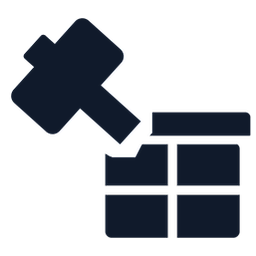
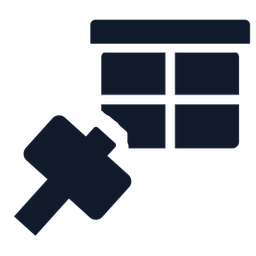
The loading picture covers the area the renderer actually fills, the income coin becomes a real turning coin off the top of its piece, and SMASH takes the build mallet's own angle

diff --git a/src/client/gains.ts b/src/client/gains.ts
@@ -1,5 +1,5 @@
-import { engine, Entity, Transform, MeshRenderer, Material, Billboard, BillboardMode } from '@dcl/sdk/ecs'
-import { Color3, Color4, Vector3 } from '@dcl/sdk/math'
+import { engine, Entity, Transform, MeshRenderer, Material } from '@dcl/sdk/ecs'
+import { Color3, Color4, Quaternion, Vector3 } from '@dcl/sdk/math'
 
 /**
  * Chaque piece posee lache SA piece de monnaie, sur elle, a son propre rythme.
@@ -15,23 +15,24 @@ import { Color3, Color4, Vector3 } from '@dcl/sdk/math'
  * sur le retour porte par l'objet: le signifiant se met sur la chose qui produit, jamais dans
  * l'interface.
  *
- * Une premiere version faisait tourner UN emetteur le long de l'etagere pour economiser des
- * entites. C'etait un rythme invente pour un budget, pas pour un joueur, et le proprietaire
- * l'a refuse a raison (7 Sep). Ici chaque socle a son minuteur, decale des autres pour qu'ils
- * ne partent pas ensemble: c'est la seule chose qu'on impose au rythme.
+ * C'est une VRAIE piece, pas une image de piece. Une premiere version affichait le sprite dore
+ * du HUD sur un panneau face camera; le proprietaire l'a vu tout de suite (7 Sep: "c'est une
+ * icone 2D de piece pas une piece 3D"). Le jeu a deja une piece en volume, celle qui tombe au
+ * sol quand on se fait tirer dessus: un cylindre couche sur le dos qui tourne autour de la
+ * verticale. Celle-ci est la meme, en plus petit, pour que le monde n'ait qu'un seul objet
+ * "argent". Elle tourne d'elle-meme, ce qui la fait lire par sa tranche puis par sa face, et
+ * c'est ce qui distingue une piece d'un jeton.
  *
- * Ce qui tient le cout n'est donc pas le rythme mais la PORTEE, et elle est drastique
- * (`emissionsDeBase` dans plots.ts): sa propre base uniquement, a portee, et seulement les
- * socles de l'etage ou l'on se trouve. Six objets au plus a l'ecran, donc huit emplacements
- * suffisent et le neuvieme est refuse plutot que mis en file.
- *
- * L'image est la pile doree de l'ancien bouton COLLECT, deja dans le depot: le jeu n'a qu'un
- * seul mot visuel pour l'argent, et c'est celui-la.
+ * Cout: huit entites partagees par toute la scene, un seul materiau, garees sous le sol entre
+ * deux apparitions. La rotation et la montee sont ecrites par la boucle ci-dessous, donc aucune
+ * de ces entites ne porte de tween.
  */
 const POOL = 8
 const VIE_MS = 950
-const MONTEE = 0.65
-const SPRITE = 'assets/ui/act-collect.png'
+const MONTEE = 0.5
+const TOURS = 1.35
+const EPAISSEUR = 0.14
+const OR = Color3.fromHexString('#ffcf4d')
 
 type Slot = { e: Entity; depuis: number; y0: number; taille: number; vivant: boolean }
 const pool: Slot[] = []
@@ -42,20 +43,12 @@ function creer(): void {
   for (let i = 0; i < POOL; i++) {
     const e = engine.addEntity()
     Transform.create(e, { position: Vector3.create(0, -60, 0), scale: Vector3.Zero() })
-    MeshRenderer.setPlane(e)
-    // Face toujours la camera: une piece vue par la tranche n'est plus une piece.
-    Billboard.create(e, { billboardMode: BillboardMode.BM_ALL })
+    MeshRenderer.setCylinder(e, 1, 1)
     Material.setPbrMaterial(e, {
-      texture: Material.Texture.Common({ src: SPRITE }),
-      emissiveTexture: Material.Texture.Common({ src: SPRITE }),
-      albedoColor: Color4.White(),
-      emissiveColor: Color3.create(1, 0.85, 0.5),
-      emissiveIntensity: 1.4,
-      metallic: 0, roughness: 1, specularIntensity: 0,
-      // Decoupe franche plutot que fondu: un fondu demanderait de reecrire le materiau a
-      // chaque image, ce qui coute bien plus qu'il ne rend sur huit objets. La disparition
-      // se joue a l'echelle, juste en dessous.
-      transparencyMode: 1, alphaTest: 0.5, castShadows: false
+      albedoColor: Color4.fromColor3(OR),
+      emissiveColor: OR,
+      emissiveIntensity: 0.9,
+      metallic: 0.9, roughness: 0.25, castShadows: false
     })
     pool.push({ e, depuis: 0, y0: 0, taille: 0.2, vivant: false })
   }
@@ -64,10 +57,10 @@ function creer(): void {
 /**
  * Une piece vient de rapporter: une piece de monnaie monte au-dessus d'elle et s'efface.
  *
- * `ou` est une position MONDE, et `rarete` decide de la taille: le joueur lit la valeur a la
- * grosseur de la piece, sans un chiffre a lire. Six nombres flottants au-dessus d'une etagere
- * seraient a dechiffrer un par un, la ou une piece se reconnait d'un coup et supporte de se
- * repeter, ce qui est exactement ce qu'on lui demande.
+ * `ou` est le point du MONDE d'ou elle part, et `rarete` decide de sa taille: le joueur lit la
+ * valeur a la grosseur de la piece, sans un chiffre a lire. Six nombres flottants au-dessus
+ * d'une etagere seraient a dechiffrer un par un, la ou une piece se reconnait d'un coup et
+ * supporte de se repeter, ce qui est exactement ce qu'on lui demande.
  */
 export function emettreGain(ou: Vector3, rarete: number): void {
   creer()
@@ -82,9 +75,10 @@ export function emettreGain(ou: Vector3, rarete: number): void {
 
   const t = Transform.getMutableOrNull(slot.e)
   if (t === null) return
-  const taille = 0.18 + Math.max(0, Math.min(6, rarete)) * 0.03
+  const taille = 0.16 + Math.max(0, Math.min(6, rarete)) * 0.025
   t.position = Vector3.create(ou.x, ou.y, ou.z)
-  t.scale = Vector3.create(taille, taille, taille)
+  t.scale = Vector3.create(taille, taille * EPAISSEUR, taille)
+  t.rotation = Quaternion.fromEulerDegrees(90, 0, 0)
   slot.depuis = Date.now()
   slot.y0 = ou.y
   slot.taille = taille
@@ -92,10 +86,10 @@ export function emettreGain(ou: Vector3, rarete: number): void {
 }
 
 /**
- * La montee et la disparition, ecrites uniquement pour les emplacements vivants.
+ * La montee, la rotation et la disparition, ecrites uniquement pour les emplacements vivants.
  *
- * Rien n'est touche quand rien ne flotte, ce qui est l'etat le plus frequent: hors d'une
- * base, la boucle ne fait que huit tests de booleen.
+ * Rien n'est touche quand rien ne flotte, ce qui est l'etat le plus frequent: hors d'une base,
+ * la boucle ne fait que huit tests de booleen.
  */
 export function setupGains(): void {
   engine.addSystem(() => {
@@ -112,9 +106,15 @@ export function setupGains(): void {
       // Vite au depart puis de plus en plus lentement, et la piece se retire sur le dernier
       // tiers: elle est lue dans le premier, elle s'en va pendant le reste.
       t.position = Vector3.create(t.position.x, s.y0 + MONTEE * (1 - (1 - k) * (1 - k)), t.position.z)
+      // Couchee sur le dos (90 sur X) et tournee autour de la verticale du MONDE, l'ordre des
+      // deux comptant: l'inverse la ferait rouler comme une roue au lieu de tourner sur place.
+      t.rotation = Quaternion.multiply(
+        Quaternion.fromEulerDegrees(0, k * 360 * TOURS, 0),
+        Quaternion.fromEulerDegrees(90, 0, 0)
+      )
       const p = k < 0.62 ? 1 : 1 - (k - 0.62) / 0.38
       const c = s.taille * p
-      t.scale = Vector3.create(c, c, c)
+      t.scale = Vector3.create(c, c * EPAISSEUR, c)
     }
   })
 }

diff --git a/src/ui.tsx b/src/ui.tsx
@@ -10,7 +10,7 @@ import { FONT_FILES } from './client/font-metrics'
 import { PrestigePanel, prestigeView } from './client/prestige-ui'
 import { FusionPanel, fuserPanelView } from './client/fusion-ui'
 import { intentEnAttente } from './client/intent'
-import { strip, row, topBand, noticeBand, active, BAND, THUMB, STACK_GAP, COIN_HAUT_DROIT, decalageCentre, setReference } from './client/layout'
+import { strip, row, topBand, noticeBand, active, BAND, THUMB, STACK_GAP, COIN_HAUT_DROIT, decalageCentre, setReference, zoneRenderer } from './client/layout'
 import { forceDuTir, GEARS, CARRY_STOLEN_SHARE } from './shared/schemas'
 import { Btn, CloseBtn, SoundBtn, Pouce, Barre, SURF, pctAnime, cue } from './client/ui-kit'
 import { damageFlashAlpha, liveAmounts } from './client/juice'
@@ -2333,14 +2333,25 @@ const LoadingScreen = () => {
     Computed rather than guessed, so it holds on any canvas the client reports.
   */
   const RATIO = 1440 / 960
-  const iw = active.w
-  const ih = Math.round(active.w / RATIO)
-  const haut = Math.round((active.h - ih) / 2)
+  /*
+    Mesure contre la zone que le renderer remplit reellement, pas contre le canevas.
+
+    Calculee contre `active`, la couverture visait un cadre plus grand que celui qu'un
+    element en `100%` occupe, parce que le renderer est pose sur la zone sure de l'appareil:
+    l'image sortait decalee et coupee de travers (proprietaire, 7 Sep). Et la dimension qui
+    commande n'est pas toujours la largeur: on compare les deux rapports plutot que de
+    supposer, sinon une tablette proche du 3:2 laisserait deux bandes vides.
+  */
+  const z = zoneRenderer()
+  const iw = z.w / z.h > RATIO ? z.w : Math.round(z.h * RATIO)
+  const ih = z.w / z.h > RATIO ? Math.round(z.w / RATIO) : z.h
+  const haut = Math.round((z.h - ih) / 2)
+  const gauche = Math.round((z.w - iw) / 2)
   const t = Date.now() / 1000
   const attend = !loadingView.assetsReady ? 'LOADING THE FIELD'
     : !theftView.walletRecu ? 'OPENING YOUR BASE'
     : 'WAKING THE SERVER'
-  const bande = Math.round(active.h * 0.26)
+  const bande = Math.round(z.h * 0.26)
   return (
     <UiEntity
       uiTransform={{
@@ -2349,7 +2360,7 @@ const LoadingScreen = () => {
       }}
       uiBackground={{ color: Color4.fromHexString('#0f1524ff') }}
     >
-      <UiEntity uiTransform={{ width: iw, height: ih, positionType: 'absolute', position: { top: haut, left: 0 } }}
+      <UiEntity uiTransform={{ width: iw, height: ih, positionType: 'absolute', position: { top: haut, left: gauche } }}
         uiBackground={{ texture: { src: 'images/base-war-thumbnail.png' }, textureMode: 'stretch' }} />
       {/*
         A band under the words rather than a veil over the whole picture. Text laid straight

diff --git a/src/client/plots.ts b/src/client/plots.ts
@@ -774,7 +774,18 @@ function emissionsDeBase(v: View, p: { items: readonly number[] }): void {
     if (rythmeSocle.size > 512) rythmeSocle.clear()
     const du = rythmeSocle.get(cle)
     if (du === undefined) {
-      rythmeSocle.set(cle, now + Math.round((k / Math.max(1, p.items.length)) * GAIN_PERIODE_MS))
+      /*
+        Le decalage se prend sur le NOMBRE D'OR, pas sur la longueur du tableau.
+
+        Il valait `k / p.items.length`, et ce tableau porte TOUS les emplacements de la tour,
+        soixante-douze sur douze etages. Six objets s'y repartissaient donc sur un douzieme de
+        la periode: ils partaient quasiment ensemble et le proprietaire a vu juste (7 Sep, "on
+        voit pas assez la difference"). La partie fractionnaire des multiples du nombre d'or
+        remplit l'intervalle regulierement quel que soit le nombre d'objets, ce qui est
+        exactement la propriete qu'on cherche ici.
+      */
+      const phase = (k * 0.6180339887) % 1
+      rythmeSocle.set(cle, now + Math.round(phase * GAIN_PERIODE_MS))
       continue
     }
     if (now < du) continue
@@ -784,9 +795,18 @@ function emissionsDeBase(v: View, p: { items: readonly number[] }): void {
     // demi-tour a la main: deux calculs du meme changement de repere finissent toujours par
     // diverger (la rampe dessinee d'un cote et marchable de l'autre, 3 Sep).
     const o = orientToBase(rt.position.z, socle.position.x, socle.position.z)
+    /*
+      Elle part du SOMMET de sa piece, pas d'un point en l'air au-dessus.
+
+      La hauteur valait 1,15 fois la taille de l'objet, soit les deux tiers de sa hauteur
+      AU-DESSUS de sa tete: la piece naissait detachee de ce qu'elle annonce, et sur une piece
+      haute elle finissait sa montee dans le plafond de l'etage (proprietaire, 7 Sep). L'entite
+      du socle porte l'objet a son CENTRE et son echelle est sa hauteur, donc son sommet est a
+      la moitie de l'echelle, et un doigt d'air au-dessus suffit a ce qu'elle s'en detache.
+    */
     emettreGain(Vector3.create(
       rt.position.x + o.dx,
-      socle.position.y + socle.scale.y * 1.15,
+      socle.position.y + socle.scale.y * 0.5 + 0.12,
       rt.position.z + o.dz
     ), rarityOf(code))
   }

diff --git a/src/client/layout.ts b/src/client/layout.ts
@@ -34,6 +34,26 @@ export const active = { w: 1920, h: 1080 }
 export function setReference(w: number, h: number): void { active.w = w; active.h = h }
 
 /**
+ * La zone dans laquelle le renderer place, en NOS unites, encoche deduite.
+ *
+ * Un element en `100%` remplit cette zone, pas la dalle: le renderer est declare avec
+ * `screenInset: 'device'`, donc son origine et sa taille sont celles du rectangle sur,
+ * publie par le client dans `screenInsetArea`. Calculer une couverture plein ecran contre
+ * `active` revenait donc a viser un cadre plus grand que celui qu'on remplit, et l'image
+ * sortait decalee et coupee de travers (proprietaire, 7 Sep). Sans information du client,
+ * la reponse honnete est le canevas de reference.
+ */
+export function zoneRenderer(): { w: number; h: number } {
+  const info = UiCanvasInformation.getOrNull(engine.RootEntity)
+  if (info === null) return { w: active.w, h: active.h }
+  const scale = Math.min(info.width / active.w, info.height / active.h)
+  if (!(scale > 0)) return { w: active.w, h: active.h }
+  const i = info.screenInsetArea
+  const g = i?.left ?? 0, d = i?.right ?? 0, h = i?.top ?? 0, b = i?.bottom ?? 0
+  return { w: (info.width - g - d) / scale, h: (info.height - h - b) / scale }
+}
+
+/**
  * What the client's own controls take from the left and right edges, in our units.
  *
  * This used to be one guessed number, 320, for the action buttons on the right. Two things

diff --git a/src/client/build-stamp.ts b/src/client/build-stamp.ts
@@ -6,4 +6,4 @@
  * construction: the code may be wrong, or the client may simply be showing the previous
  * version. Two hours of that argument (1 Sep) is what this four-character string ends.
  */
-export const BUILD = '641c'
+export const BUILD = '6bfe'

diff --git a/tools/ui/build-smash-icon.py b/tools/ui/build-smash-icon.py
@@ -62,11 +62,11 @@ NAVY = (16, 26, 43, 255)
 # les VIDES qui dessinent". So the mallet crosses the box, and the box is HOLLOWED OUT around
 # the mallet's silhouette. Both keep their full size, the pair stays compact, and one flat ink
 # still reads as two objects.
-BOX_PART = 0.70          # the box's file, as a share of the canvas
-MALLET_PART = 0.60       # the mallet's file, same
-BOX_TL = (0.36, 0.48)    # where the box's ink starts, in canvas shares
+BOX_PART = 0.72          # the box's file, as a share of the canvas
+MALLET_PART = 0.56       # the mallet's file, same
+BOX_TL = (0.36, 0.02)    # where the box's ink starts, in canvas shares
 # Where the head lands, as a share of the box's ink, measured from its top left corner.
-FRAPPE = (0.30, 0.26)
+FRAPPE = (0.26, 0.74)
 # The void carved around the mallet, in canvas shares. Two masses of one ink that touch fuse
 # into a blob; this is the same separation the crate draws between its own planks.
 VIDE = 0.045
@@ -82,7 +82,9 @@ VIDE = 0.045
 # clockwise the head meets the box corner-first and reads thin; turned ANTICLOCKWISE its flat
 # FACE lands on the box, which is the shape of a blow, and the void carved under it makes the
 # box look bitten into rather than merely overlapped.
-MALLET_TURN = 90
+MALLET_TURN = 0
+# Le coin de l'encre du maillet qui porte sa TETE, en fractions de sa boite.
+TETE_COIN = (1.0, 0.0)
 # A SHORT mallet, and the reason is stroke weight, not composition.
 #
 # Two objects share this canvas, so the tool is drawn shorter than when it stands alone.
@@ -163,7 +165,12 @@ def dessiner_poses(size, colour):
     # of the box it strikes, given as a share of the box's own ink. One position for all three.
     vise = (round(BOX_TL[0] * big) + round(FRAPPE[0] * (bb[2] - bb[0])),
             round(BOX_TL[1] * big) + round(FRAPPE[1] * (bb[3] - bb[1])))
-    ml_at = (vise[0] - mb[2], vise[1] - mb[3])
+    # Quel coin de l'encre du maillet EST sa tete, en fractions de sa boite. Sans rotation la
+    # tete est en haut a droite (1, 0); c'est ce coin la qu'on pose sur la boite, jamais un
+    # coin choisi une fois pour toutes, sinon changer l'orientation deplace tout l'assemblage.
+    tx = mb[0] + TETE_COIN[0] * (mb[2] - mb[0])
+    ty = mb[1] + TETE_COIN[1] * (mb[3] - mb[1])
+    ml_at = (round(vise[0] - tx), round(vise[1] - ty))
 
     # The union of the three poses: what the box has to make room for, and what has to fit.
     union = Image.new('RGBA', poses['struck'].size, (0, 0, 0, 0))
